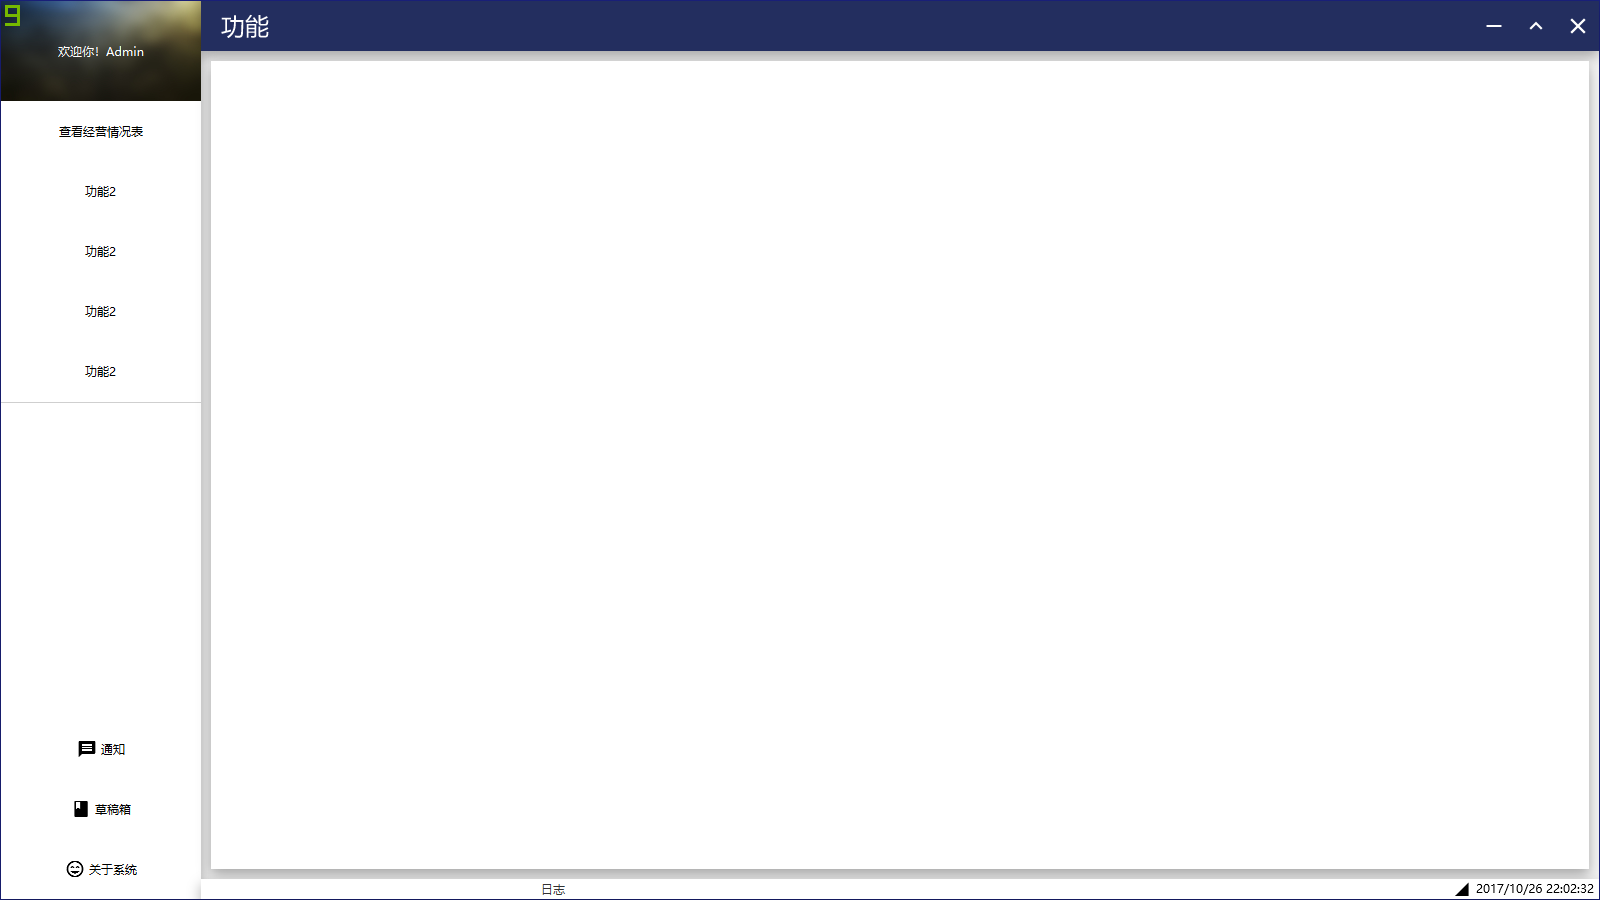
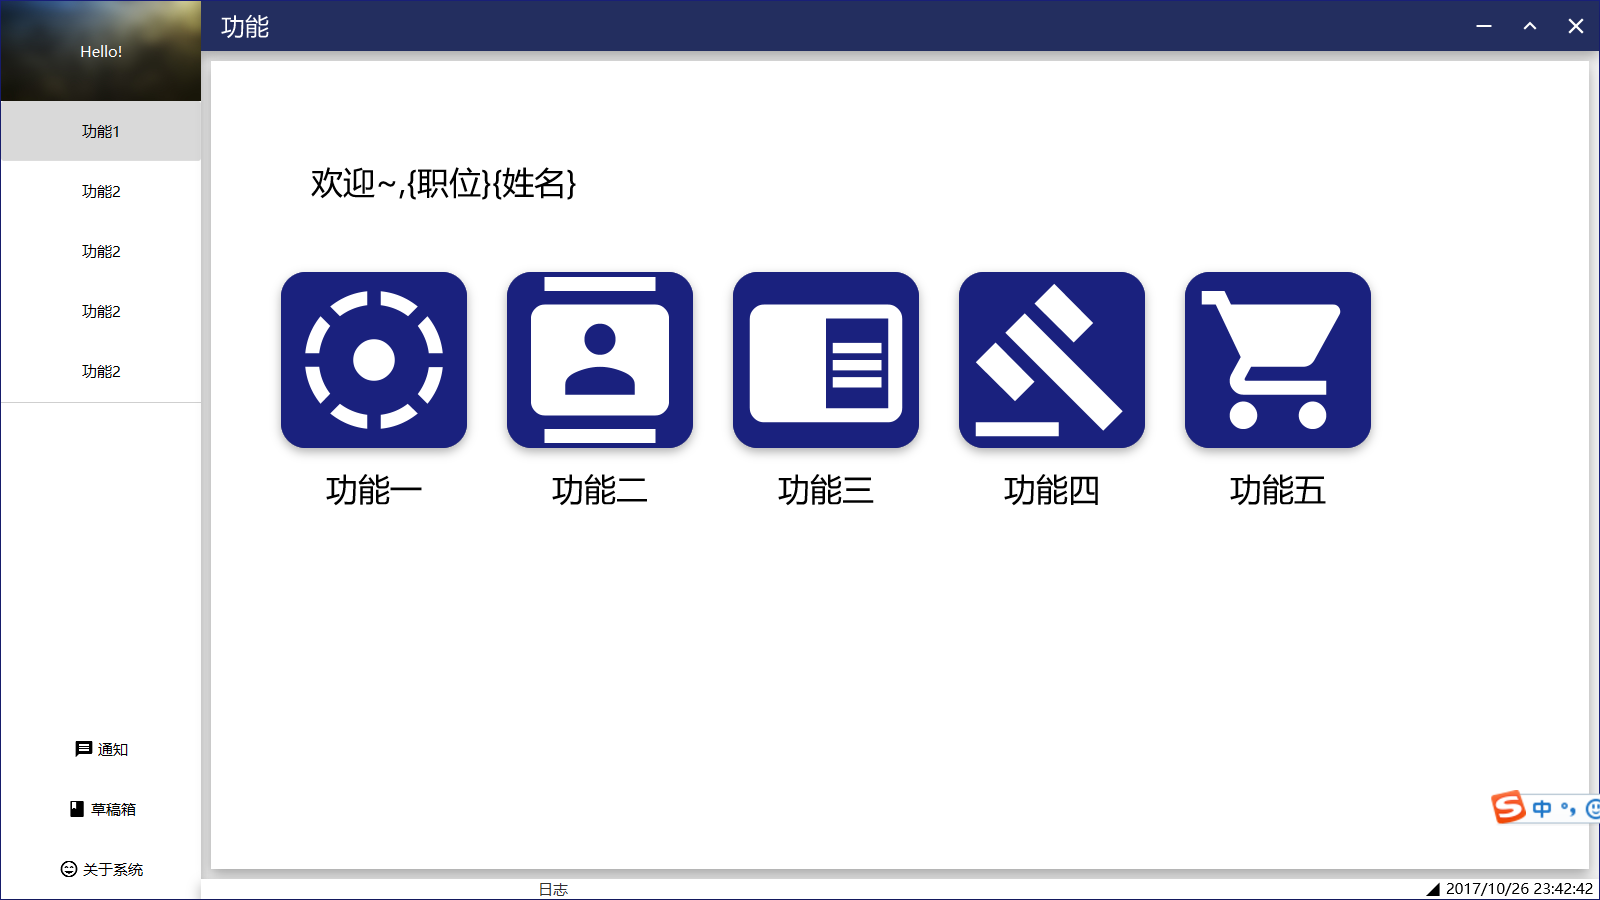
update staff main ui

diff --git a/src/Lightx00.Client/src/main/java/trapx00/lightx00/client/presentation/SaleAndPurchaseTest.java b/src/Lightx00.Client/src/main/java/trapx00/lightx00/client/presentation/SaleAndPurchaseTest.java
@@ -6,6 +6,7 @@ import javafx.scene.Scene;
 import javafx.stage.Stage;
 import javafx.stage.StageStyle;
 import trapx00.lightx00.client.presentation.inventoryui.ModifyPurchaseBillUiController;
+import trapx00.lightx00.client.presentation.mainui.SaleStaffUiController;
 
 import java.io.IOException;
 
@@ -18,14 +19,14 @@ public class SaleAndPurchaseTest extends Application{
     public void start(Stage primaryStage) {
         try {
             FXMLLoader loader = new FXMLLoader();
-            loader.setLocation(getClass().getResource("/fxml/inventoryui/ModifyPurchaseBillUI.fxml"));
+            loader.setLocation(getClass().getResource("/fxml/mainui/SaleStaffUI.fxml"));
 
             Scene scene = new Scene(loader.load());
 
             primaryStage.initStyle(StageStyle.UNDECORATED);
             primaryStage.setScene(scene);
 
-            ModifyPurchaseBillUiController controller = loader.getController();
+            SaleStaffUiController controller = loader.getController();
             controller.setStage(primaryStage);
 
             primaryStage.show();

diff --git a/src/Lightx00.Client/src/main/java/trapx00/lightx00/client/presentation/financeui/TradeHistoryUiController.java b/src/Lightx00.Client/src/main/java/trapx00/lightx00/client/presentation/financeui/TradeHistoryUiController.java
@@ -93,7 +93,7 @@ public class TradeHistoryUiController {
             TradeHistoryUiController thisController = loader.getController();
             thisController.frameworkController = frameworkUiController;
             frameworkUiController.setContent(content);
-            frameworkUiController.titleText.setText("查看经营历程表");
+            //frameworkUiController.titleText.setText("查看经营历程表");
             return thisController;
         } catch (IOException e) {
             e.printStackTrace();

diff --git a/src/Lightx00.Client/src/main/java/trapx00/lightx00/client/presentation/draftui/DraftUiController.java b/src/Lightx00.Client/src/main/java/trapx00/lightx00/client/presentation/draftui/DraftUiController.java
@@ -62,7 +62,7 @@ public class DraftUiController {
             DraftUiController draftUiController = loader.getController();
             draftUiController.frameworkController = frameworkUiController;
             frameworkUiController.setContent(content);
-            frameworkUiController.titleText.setText("管理草稿箱");
+            //frameworkUiController.titleText.setText("管理草稿箱");
             return draftUiController;
         } catch (IOException e) {
             e.printStackTrace();

diff --git a/src/Lightx00.Client/src/main/java/trapx00/lightx00/client/presentation/logui/LogUiController.java b/src/Lightx00.Client/src/main/java/trapx00/lightx00/client/presentation/logui/LogUiController.java
@@ -60,7 +60,7 @@ public class LogUiController {
             LogUiController thisController = loader.getController();
             thisController.frameworkController = frameworkUiController;
             frameworkUiController.setContent(content);
-            frameworkUiController.titleText.setText("查看日志");
+            //frameworkUiController.titleText.setText("查看日志");
             return thisController;
         } catch (IOException e) {
             e.printStackTrace();

diff --git a/src/Lightx00.Client/src/main/java/trapx00/lightx00/client/presentation/mainui/SaleStaffUiController.java b/src/Lightx00.Client/src/main/java/trapx00/lightx00/client/presentation/mainui/SaleStaffUiController.java
@@ -1,0 +1,4 @@
+package trapx00.lightx00.client.presentation.mainui;
+
+public class SaleStaffUiController extends FrameworkUiController{
+}
